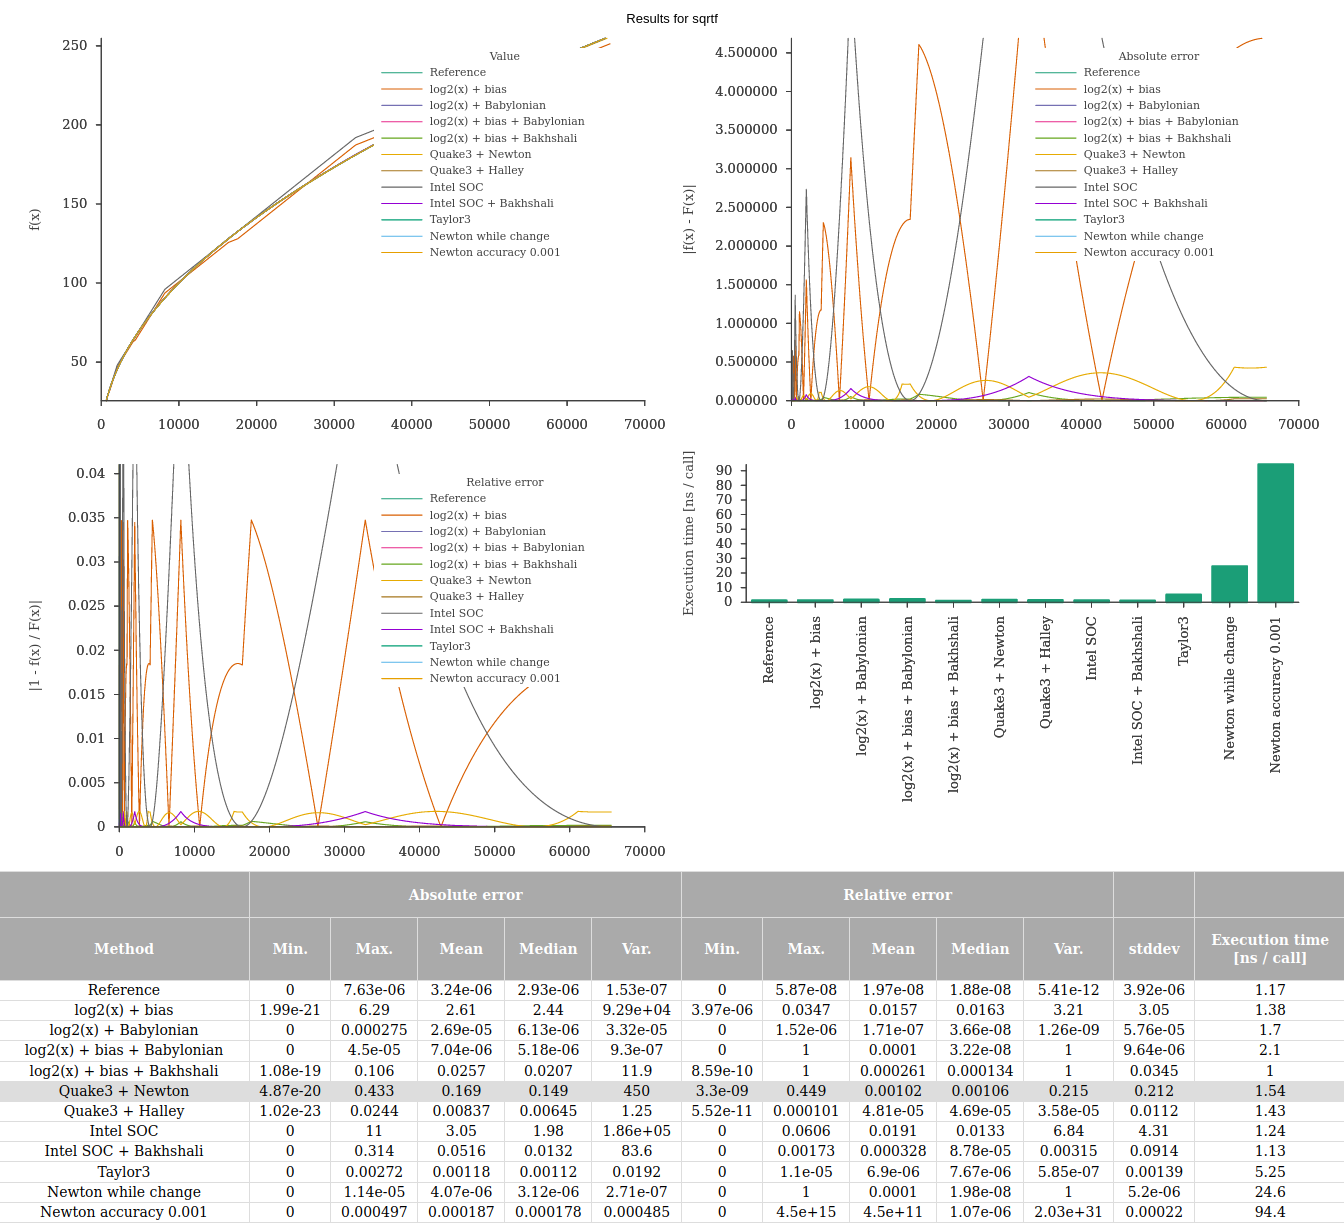
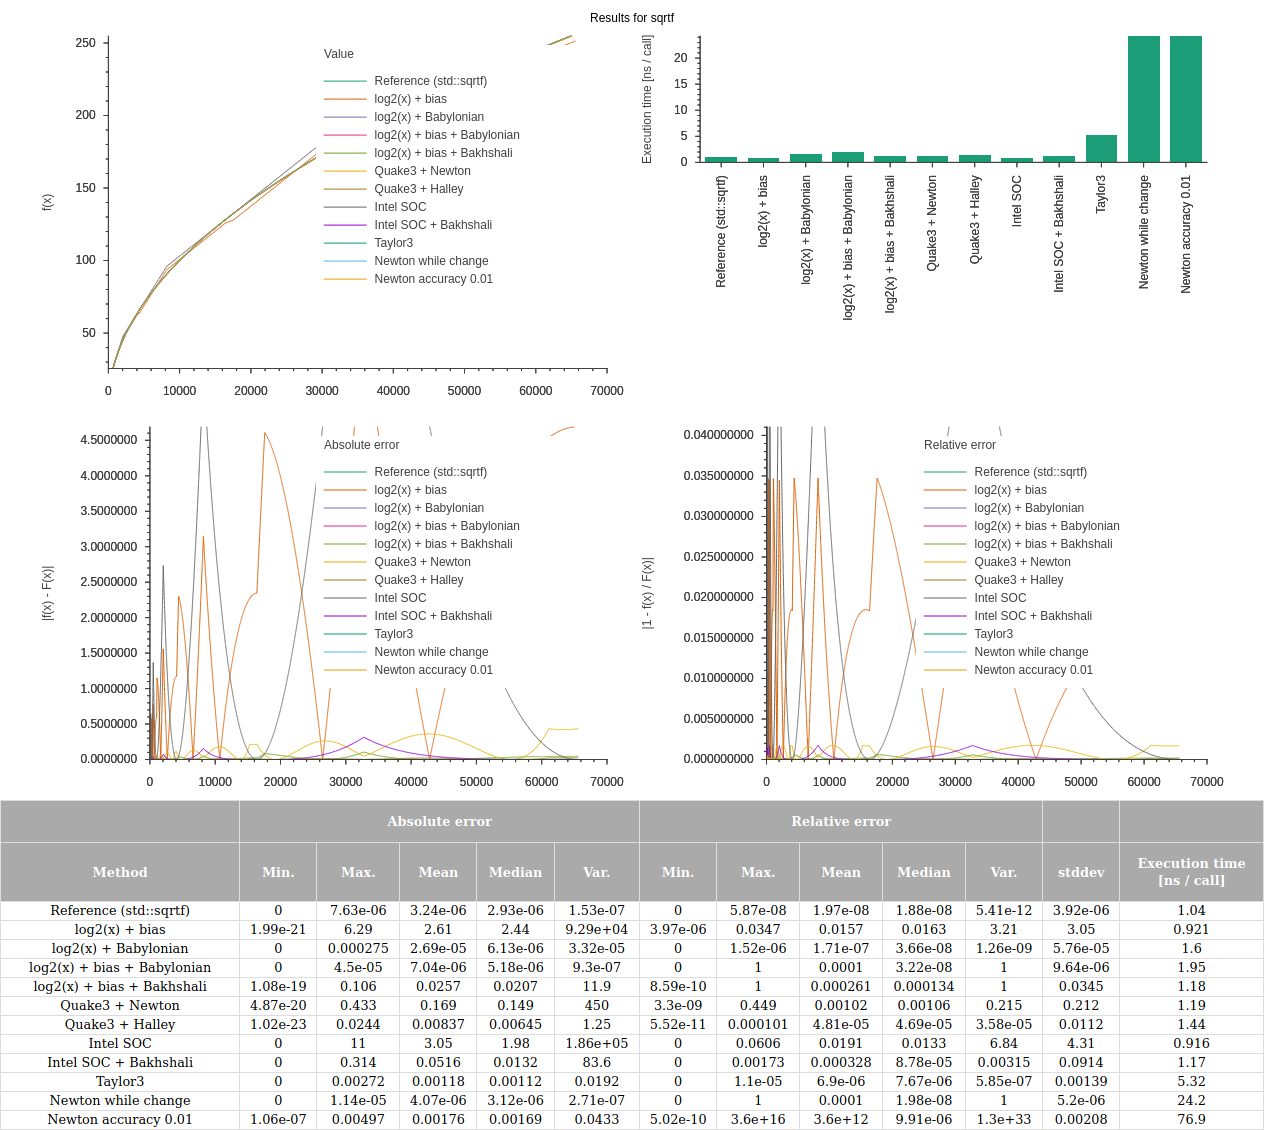
New sciplot version. Improve execution time plots

diff --git a/plot.h b/plot.h
@@ -22,6 +22,21 @@ std::pair<T, T> calculateRange(const std::vector<Result<T>>& rs, std::function<T
 }
 
 template <typename T>
+std::pair<T, T> calculateMedianRange(const std::vector<Result<T>>& rs, std::function<T(const Result<T>&)> valueFunc, T sizePercent)
+{
+    // calculate median of values
+    std::vector<T> v;
+    std::transform(rs.cbegin(), rs.cend(), std::back_inserter(v), [&valueFunc](const auto& r) { return valueFunc(r); });
+    std::nth_element(v.begin(), v.begin() + v.size() / 2, v.end());
+    auto medianIt = v.cbegin() + v.size() / 2;
+    // now get sizePercent values centered around median
+    const decltype(v.size()) halfRange = v.size() / 2 * sizePercent / 100;
+    auto leftIt = std::prev(medianIt, halfRange);
+    auto rightIt = std::next(medianIt, halfRange);
+    return std::make_pair(*leftIt, *rightIt);
+}
+
+template <typename T>
 std::pair<T, T> calculateMedianRange(const std::vector<Result<T>>& rs, std::function<const std::vector<T>&(const Result<T>&)> valuesFunc, T sizePercent)
 {
     // calculate min / max percentage range of all values around median
@@ -43,41 +58,42 @@ std::pair<T, T> calculateMedianRange(const std::vector<Result<T>>& rs, std::func
 }
 
 template <typename T>
-void plotLines(sciplot::multiplot& mp, const std::vector<Result<T>>& rs, std::function<const std::vector<T>&(const Result<T>&)> valuesFunc, T sizePercent, const std::string& title, const std::string& yLabel)
+sciplot::Plot plotLines(const std::vector<Result<T>>& rs, std::function<const std::vector<T>&(const Result<T>&)> valuesFunc, T sizePercent, const std::string& title, const std::string& yLabel)
 {
     auto rangePercent = calculateMedianRange(rs, valuesFunc, sizePercent);
     rangePercent.second = rangePercent.second - rangePercent.first == 0 ? rangePercent.first + 1 : rangePercent.second;
     const auto& fr = rs.front();
     const auto x = sciplot::linspace(fr.inputRange.first, fr.inputRange.second, fr.samplesInRange);
-    sciplot::plot p;
+    sciplot::Plot p;
     p.tics();
     p.xlabel("");
-    p.legend().header(title);
-    p.border().linewidth(1);
+    p.legend().title(title);
+    p.border().lineWidth(1);
     p.ylabel(yLabel);
     p.yrange(rangePercent.first, rangePercent.second);
     for (const auto& r : rs)
     {
-        p.draw(x, valuesFunc(r)).title(r.description).linewidth(1);
+        p.drawCurve(x, valuesFunc(r)).label(r.description).lineWidth(1);
     }
-    mp.add(p);
+    return p;
 }
 
 template <typename T>
-void plotBars(sciplot::multiplot& mp, const std::vector<Result<T>>& rs, std::function<T(const Result<T>&)> valueFunc, const std::string& title, const std::string& yLabel)
+sciplot::Plot plotBars(const std::vector<Result<T>>& rs, std::function<T(const Result<T>&)> valueFunc, T sizePercent, const std::string& title, const std::string& yLabel)
 {
-    auto range = calculateRange(rs, valueFunc);
-    range.second = range.second - range.first == 0 ? range.first + 1 : range.second;
+    auto rangePercent = calculateMedianRange(rs, valueFunc, sizePercent);
+    rangePercent.second = rangePercent.second - rangePercent.first == 0 ? rangePercent.first + 1 : rangePercent.second;
     const auto& fr = rs.front();
-    sciplot::plot p;
+    sciplot::Plot p;
     p.tics();
     p.xlabel("");
+    p.legend().hide();
     p.xtics().rotate();
-    p.legend().header(title);
-    p.border().linewidth(1);
+    //p.legend().title(title);
+    p.border().lineWidth(1);
     p.ylabel(yLabel);
-    p.yrange(0, range.second);
-    p.boxwidth(sciplot::boxwidthtype::relative, 0.75F);
+    p.yrange(0, rangePercent.second);
+    p.boxWidthRelative(0.75F);
     std::vector<std::string> x;
     std::vector<T> y;
     for (decltype(rs.size()) i = 0; i < rs.size(); i++)
@@ -85,25 +101,24 @@ void plotBars(sciplot::multiplot& mp, const std::vector<Result<T>>& rs, std::fun
         x.push_back(rs[i].description);
         y.push_back(valueFunc(rs[i]));
     }
-    p.draw(x, y).with(sciplot::plotstyle::boxes).title(title).fillstyle(sciplot::fillstyle::solid).use(sciplot::plotspecs::USE_AUTO, 2, sciplot::plotspecs::USE_AUTO, 1);
-    mp.add(p);
+    p.drawBoxes(x, y).fillSolid();
+    return p;
 }
 
 template <typename T>
 void plot(const std::vector<Result<T>>& rs, const std::string& fileName)
 {
     const auto& fr = rs.front();
-    sciplot::multiplot mp;
+    std::function<const std::vector<T>&(const Result<T>&)> valueFunc = [](const Result<T>& r) -> const std::vector<T>& { return r.values; };
+    auto p0 = plotLines(rs, valueFunc, (T)98, "Value", "f(x)");
+    std::function<const std::vector<T>&(const Result<T>&)> absFunc = [](const Result<T>& r) -> const std::vector<T>& { return r.absoluteErrors.values; };
+    auto p1 = plotLines(rs, absFunc, (T)80, "Absolute error", "|f(x) - F(x)|");
+    std::function<const std::vector<T>&(const Result<T>&)> relFunc = [](const Result<T>& r) -> const std::vector<T>& { return r.relativeErrors.values; };
+    auto p2 = plotLines(rs, relFunc, (T)80, "Relative error", "|1 - f(x) / F(x)|");
+    std::function<T(const Result<T>&)> callNsFunc = [](const Result<T>& r) { return float(r.callNs - r.overheadNs) / (float)r.samplesInRange; };
+    auto p3 = plotBars(rs, callNsFunc, (T)70, "", "Execution time [ns / call]");
+    sciplot::Figure mp = {{p0, p3}, {p1, p2}};
     mp.size(1200, 800);
     mp.title("Results for " + fr.suiteName);
-    mp.layout(2, 2);
-    std::function<const std::vector<T>&(const Result<T>&)> valueFunc = [](const Result<T>& r) -> const std::vector<T>& { return r.values; };
-    plotLines(mp, rs, valueFunc, (T)98, "Value", "f(x)");
-    std::function<const std::vector<T>&(const Result<T>&)> absFunc = [](const Result<T>& r) -> const std::vector<T>& { return r.absoluteErrors.values; };
-    plotLines(mp, rs, absFunc, (T)80, "Absolute error", "|f(x) - F(x)|");
-    std::function<const std::vector<T>&(const Result<T>&)> relFunc = [](const Result<T>& r) -> const std::vector<T>& { return r.relativeErrors.values; };
-    plotLines(mp, rs, relFunc, (T)80, "Relative error", "|1 - f(x) / F(x)|");
-    std::function<T(const Result<T>&)> callNsFunc = [](const Result<T>& r) { return float(r.callNs - r.overheadNs) / (float)r.samplesInRange; };
-    plotBars(mp, rs, callNsFunc, "", "Execution time [ns / call]");
     mp.save(fileName);
 }

diff --git a/test_sqrtf.h b/test_sqrtf.h
@@ -214,7 +214,7 @@ float sqrtf_10(const float x)
 // See: http://www.cs.uni.edu/~jacobson/C++/newton.html
 float sqrtf_11(const float x)
 {
-    const float ACCURACY = 0.001;
+    const float ACCURACY = 0.01;
     float lower, upper, guess;
     if (x < 1)
     {
@@ -248,7 +248,7 @@ class SqrtfTest : public Test<float, double>
     std::vector<Result<double>> runTests() const
     {
         std::vector<Result<double>> results;
-        results.push_back(run("#0", "Reference", &sqrtf_0));
+        results.push_back(run("#0", "Reference (std::sqrtf)", &sqrtf_0));
         results.push_back(run("#1", "log2(x) + bias", &sqrtf_1));
         results.push_back(run("#2", "log2(x) + Babylonian", &sqrtf_2));
         results.push_back(run("#3", "log2(x) + bias + Babylonian", &sqrtf_3));
@@ -259,7 +259,7 @@ class SqrtfTest : public Test<float, double>
         results.push_back(run("#8", "Intel SOC + Bakhshali", &sqrtf_8));
         results.push_back(run("#9", "Taylor3", &sqrtf_9));
         results.push_back(run("#10", "Newton while change", &sqrtf_10));
-        results.push_back(run("#11", "Newton accuracy 0.001", &sqrtf_11));
+        results.push_back(run("#11", "Newton accuracy 0.01", &sqrtf_11));
         return results;
     }
 

diff --git a/test_sqrti.h b/test_sqrti.h
@@ -154,7 +154,7 @@ class SqrtiTest : public Test<uint32_t, double>
     std::vector<Result<double>> runTests() const
     {
         std::vector<Result<double>> results;
-        results.push_back(run("#0", "Reference", &sqrti_reference));
+        results.push_back(run("#0", "Reference (std::sqrt)", &sqrti_reference));
         results.push_back(run("#1", "Optimized binomial theorem", &sqrti_1));
         results.push_back(run("#2", "Abacus algorithm", &sqrti_2));
         results.push_back(run("#3", "Crenshaw Embedded 1998", &sqrti_3));

diff --git a/test_log10f.h b/test_log10f.h
@@ -172,7 +172,7 @@ class Log10Test : public Test<float, double>
     std::vector<Result<double>> runTests() const
     {
         std::vector<Result<double>> results;
-        results.push_back(run("#0", "Reference", &log10f_0));
+        results.push_back(run("#0", "Reference (std::log10f)", &log10f_0));
         results.push_back(run("#1", "log2(x) / log2(10)", &log10f_1));
         results.push_back(run("#2", "ARM forum / Dr. Paul Beckmann", &log10f_2));
         results.push_back(run("#3", "David Goldberg div", &log10f_3));

diff --git a/test_invsqrtf.h b/test_invsqrtf.h
@@ -78,7 +78,7 @@ class InvSqrtfTest : public Test<float, double>
     std::vector<Result<double>> runTests() const
     {
         std::vector<Result<double>> results;
-        results.push_back(run("#0", "Reference", &invsqrtf_0));
+        results.push_back(run("#0", "Reference (1/std::sqrtf)", &invsqrtf_0));
         results.push_back(run("#1", "Quake3", &invsqrtf_1));
         results.push_back(run("#2", "Quake3 + Newton", &invsqrtf_2));
         return results;

diff --git a/test_expf.h b/test_expf.h
@@ -77,7 +77,7 @@ class ExpfTest : public Test<float, double>
     std::vector<Result<double>> runTests() const
     {
         std::vector<Result<double>> results;
-        results.push_back(run("#0", "Reference", &expf_0));
+        results.push_back(run("#0", "Reference (std::expf)", &expf_0));
         results.push_back(run("#1", "Pseudorandom monomial", &expf_1));
         return results;
     }
